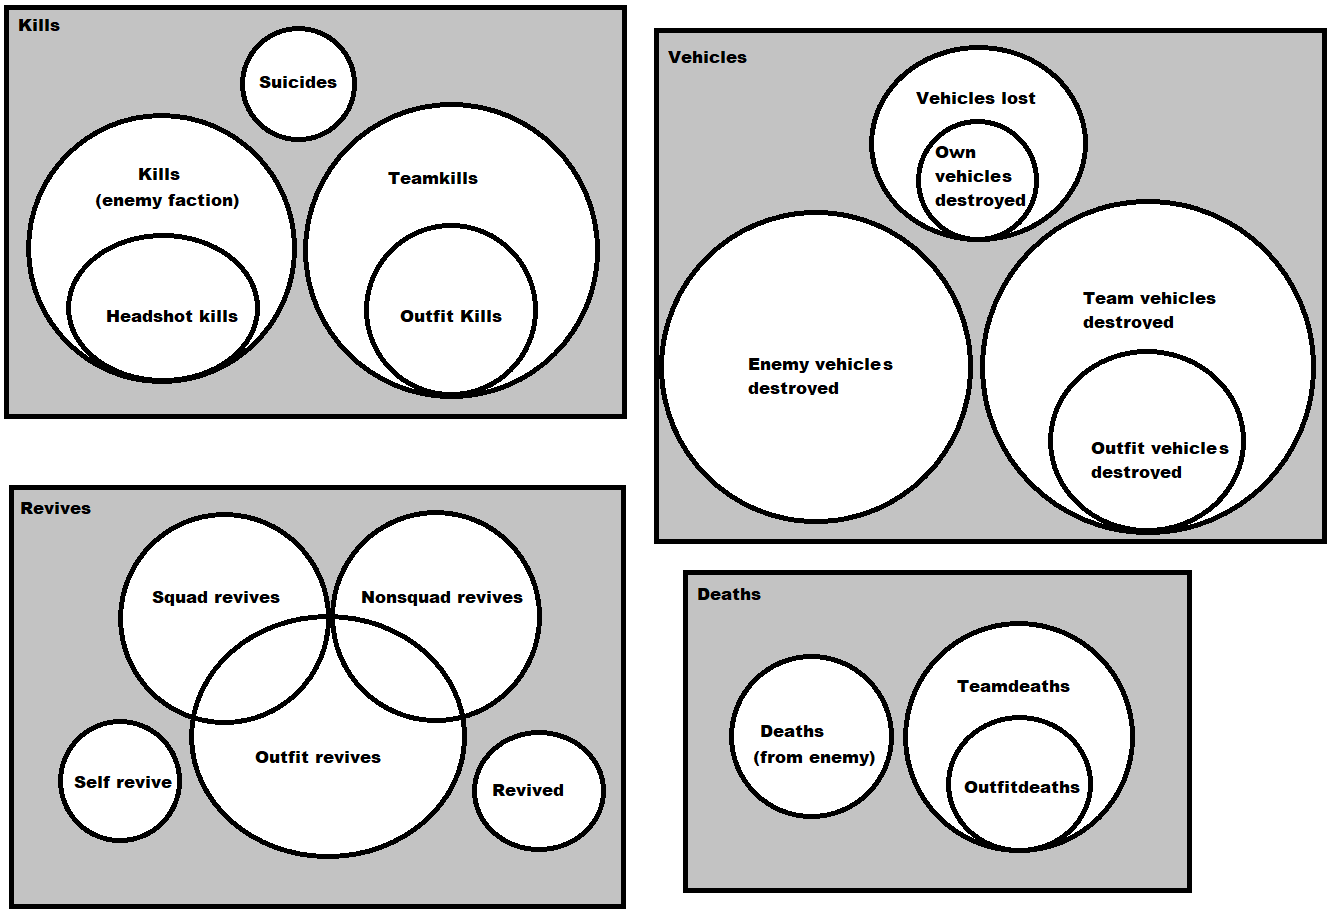
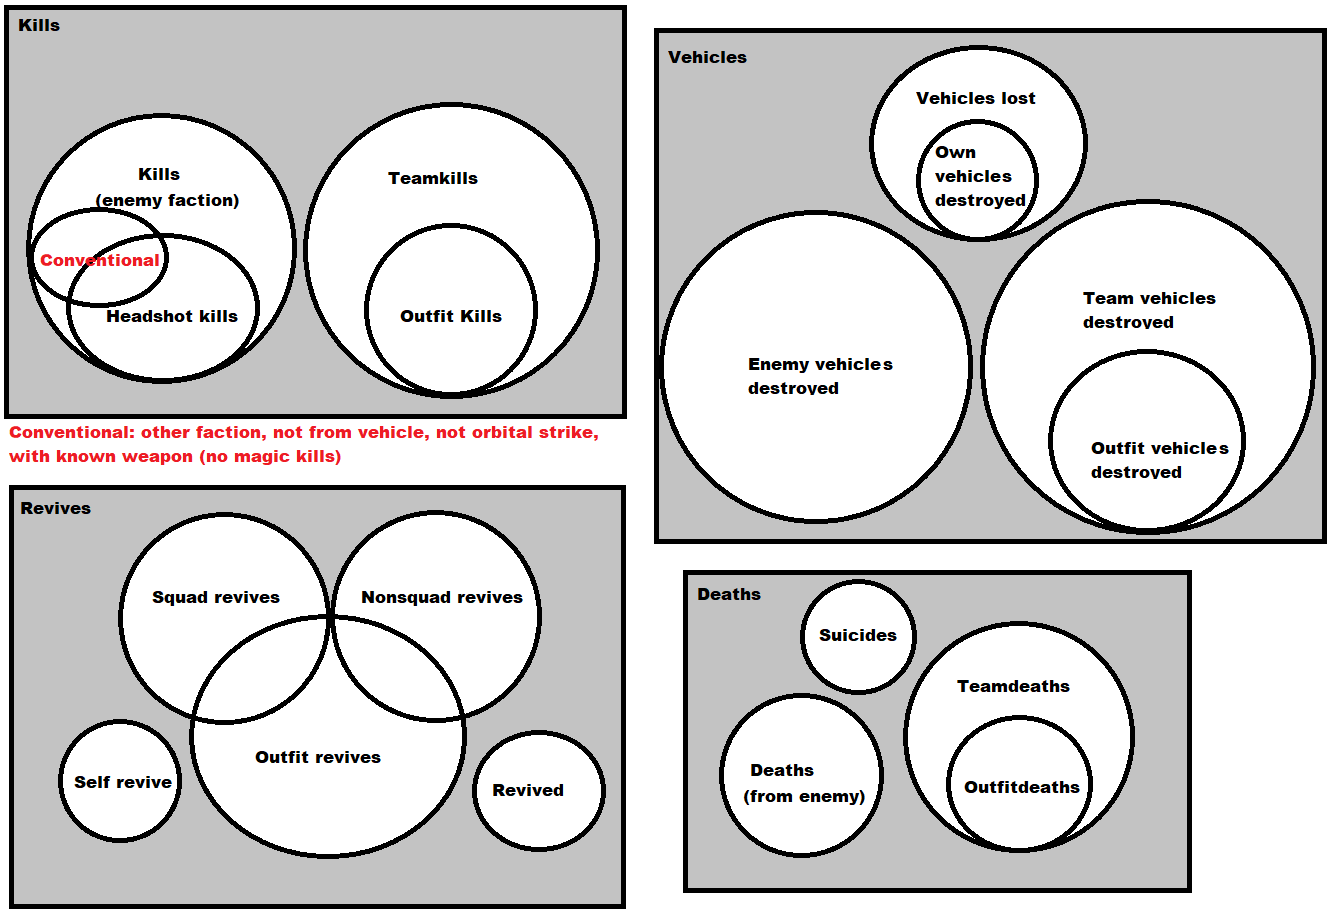
Added ConventionalKills, updated README and stat diagram

diff --git a/PlanetsideAPIWebsocket/OutfitMembersTracker.cs b/PlanetsideAPIWebsocket/OutfitMembersTracker.cs
@@ -342,6 +342,7 @@ namespace PlanetsideAPIWebsocket
     {
         public enum Statistic {
             Kills,
+            ConventionalKills,
             Deaths,
             Assists,
             Teamkills,
@@ -386,7 +387,7 @@ namespace PlanetsideAPIWebsocket
 
 
         public TimeSpan OnlineTime
-        {
+        {   
             get
             {
                 if (OnlineSince.Ticks > 0) return OnlineTimespan + (DateTime.Now - OnlineSince);
@@ -463,6 +464,8 @@ namespace PlanetsideAPIWebsocket
                 else RegisterStatisticChange(Statistic.Teamkills);
                 if (record.victim.Outfit == record.attacker.Outfit) RegisterStatisticChange(Statistic.Outfitkills);
                 if (record.headshot && record.victim.Faction != record.attacker.Faction) RegisterStatisticChange(Statistic.HeadshotEnemyKills);
+                if (record.victim.Faction != record.attacker.Faction && record.weaponName != null && record.weaponName.IndexOf("Orbital Strike", StringComparison.OrdinalIgnoreCase) == -1 && record.attackerVehicle.Name == null)
+                    RegisterStatisticChange(Statistic.ConventionalKills);
             }
             else
             {

diff --git a/README.md b/README.md
@@ -8,7 +8,7 @@ Usage:
 TODO:
 -----
 + make it more error-proof (reconnect to API stream if connection lost)
-+ __add spot kills and more to tracker__
++ ~~__add spot kills and more to tracker__~~ (done)
 + __add killstreaks, multikills etc. notices__
 + add cache timeout for players? for long-running program uses
 + player online time is not always correct in multithreaded environment (one thread registers him as offline before another thread registers him online with earlier timestamp)
@@ -27,3 +27,6 @@ Notes:
   After 30 minutes, 1100 players cached (~1700 playing at that time).
 
 * Vehicle kills does not count turret kills (glaive too)
+
+Statistics counter diagram:
+![alt text](https://github.com/Georgiks/PlanetsideOutfitTracker/blob/master/StatisticsDiagram.png "How different stats include other stats")
